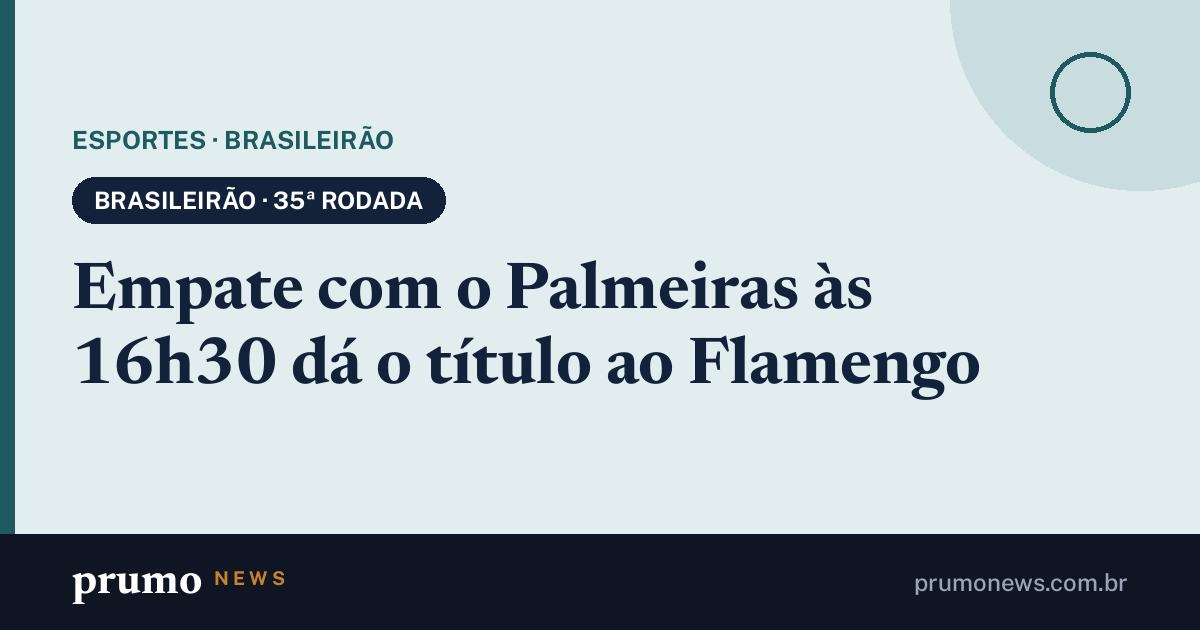
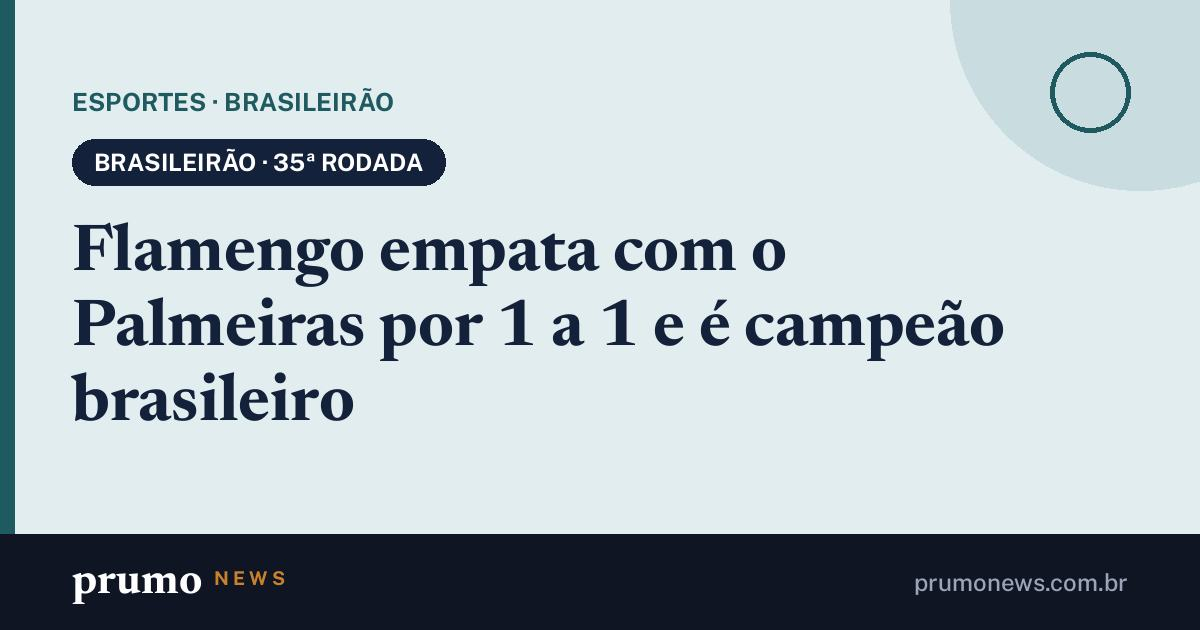
Páginas de compartilhamento 21/11 19h49

Changed region(s): [[0.0617, 0.1206, 0.8325, 0.6937]]

diff --git a/m/brasileirao-31-rodada-lideres.html b/m/brasileirao-31-rodada-lideres.html
@@ -3,20 +3,22 @@
 <head>
 <meta charset="utf-8">
 <meta name="viewport" content="width=device-width, initial-scale=1">
-<title>Flamengo visita o Palmeiras e pode ser campeão com um empate · Prumo News</title>
-<meta name="description" content="Líder com 79 pontos, o Flamengo visita o Palmeiras (73); o empate basta pela conta dos pontos e das vitórias.">
-<link rel="canonical" href="https://prumonews.com.br/m/flamengo-visita-o-palmeiras-e-pode-ser-campeao-com-um-empate.html">
+<title>Flamengo empata com o Palmeiras por 1 a 1 e é campeão brasileiro · Prumo News</title>
+<meta name="description" content="O empate no Allianz Parque, na 36ª rodada, garantiu o título ao Flamengo, líder desde antes do clássico.">
+<link rel="canonical" href="https://prumonews.com.br/m/flamengo-empata-com-o-palmeiras-por-1-a-1-e-e-campeao-brasileiro.html">
 <meta property="og:type" content="article">
 <meta property="og:site_name" content="Prumo News">
 <meta property="og:locale" content="pt_BR">
-<meta property="og:title" content="Flamengo visita o Palmeiras e pode ser campeão com um empate">
-<meta property="og:description" content="Líder com 79 pontos, o Flamengo visita o Palmeiras (73); o empate basta pela conta dos pontos e das vitórias.">
-<meta property="og:url" content="https://prumonews.com.br/m/flamengo-visita-o-palmeiras-e-pode-ser-campeao-com-um-empate.html">
-<meta property="og:image" content="https://upload.wikimedia.org/wikipedia/commons/thumb/0/0c/Allianz_Parque_2025.jpg/960px-Allianz_Parque_2025.jpg">
+<meta property="og:title" content="Flamengo empata com o Palmeiras por 1 a 1 e é campeão brasileiro">
+<meta property="og:description" content="O empate no Allianz Parque, na 36ª rodada, garantiu o título ao Flamengo, líder desde antes do clássico.">
+<meta property="og:url" content="https://prumonews.com.br/m/flamengo-empata-com-o-palmeiras-por-1-a-1-e-e-campeao-brasileiro.html">
+<meta property="og:image" content="https://prumonews.com.br/m/og/brasileirao-31-rodada-lideres.jpg?v=07063ba75f">
+<meta property="og:image:width" content="1200">
+<meta property="og:image:height" content="630">
 <meta name="twitter:card" content="summary_large_image">
 <meta name="theme-color" content="#0f1522">
 <script>location.replace("/#m=brasileirao-31-rodada-lideres")</script>
 <style>body{margin:0;font:16px/1.5 system-ui,sans-serif;background:#0f1522;color:#e8ecf2;display:grid;place-items:center;min-height:100vh;padding:24px;box-sizing:border-box;text-align:center}a{color:#e6b673}</style>
 </head>
-<body><p><a href="/#m=brasileirao-31-rodada-lideres">Flamengo visita o Palmeiras e pode ser campeão com um empate</a><br>Abrindo no Prumo News…</p></body>
+<body><p><a href="/#m=brasileirao-31-rodada-lideres">Flamengo empata com o Palmeiras por 1 a 1 e é campeão brasileiro</a><br>Abrindo no Prumo News…</p></body>
 </html>

diff --git a/m/flamengo-empata-com-o-palmeiras-por-1-a-1-e-e-campeao-brasileiro.html b/m/flamengo-empata-com-o-palmeiras-por-1-a-1-e-e-campeao-brasileiro.html
@@ -1,0 +1,24 @@
+<!doctype html>
+<html lang="pt-BR">
+<head>
+<meta charset="utf-8">
+<meta name="viewport" content="width=device-width, initial-scale=1">
+<title>Flamengo empata com o Palmeiras por 1 a 1 e é campeão brasileiro · Prumo News</title>
+<meta name="description" content="O empate no Allianz Parque, na 36ª rodada, garantiu o título ao Flamengo, líder desde antes do clássico.">
+<link rel="canonical" href="https://prumonews.com.br/m/flamengo-empata-com-o-palmeiras-por-1-a-1-e-e-campeao-brasileiro.html">
+<meta property="og:type" content="article">
+<meta property="og:site_name" content="Prumo News">
+<meta property="og:locale" content="pt_BR">
+<meta property="og:title" content="Flamengo empata com o Palmeiras por 1 a 1 e é campeão brasileiro">
+<meta property="og:description" content="O empate no Allianz Parque, na 36ª rodada, garantiu o título ao Flamengo, líder desde antes do clássico.">
+<meta property="og:url" content="https://prumonews.com.br/m/flamengo-empata-com-o-palmeiras-por-1-a-1-e-e-campeao-brasileiro.html">
+<meta property="og:image" content="https://prumonews.com.br/m/og/brasileirao-31-rodada-lideres.jpg?v=07063ba75f">
+<meta property="og:image:width" content="1200">
+<meta property="og:image:height" content="630">
+<meta name="twitter:card" content="summary_large_image">
+<meta name="theme-color" content="#0f1522">
+<script>location.replace("/#m=brasileirao-31-rodada-lideres")</script>
+<style>body{margin:0;font:16px/1.5 system-ui,sans-serif;background:#0f1522;color:#e8ecf2;display:grid;place-items:center;min-height:100vh;padding:24px;box-sizing:border-box;text-align:center}a{color:#e6b673}</style>
+</head>
+<body><p><a href="/#m=brasileirao-31-rodada-lideres">Flamengo empata com o Palmeiras por 1 a 1 e é campeão brasileiro</a><br>Abrindo no Prumo News…</p></body>
+</html>
